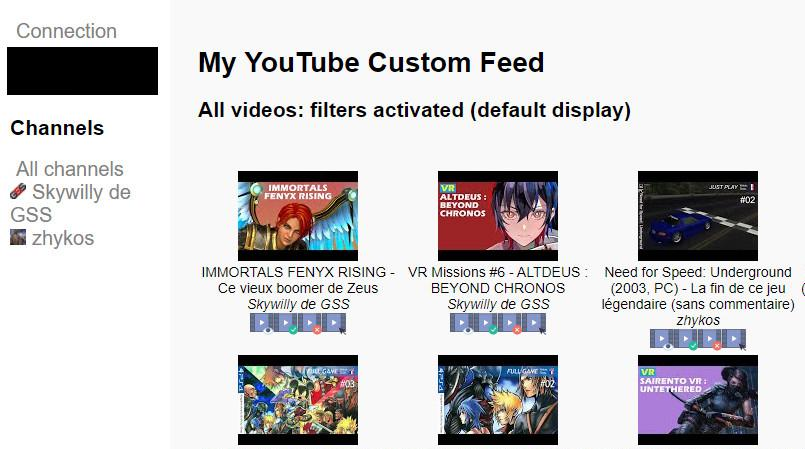
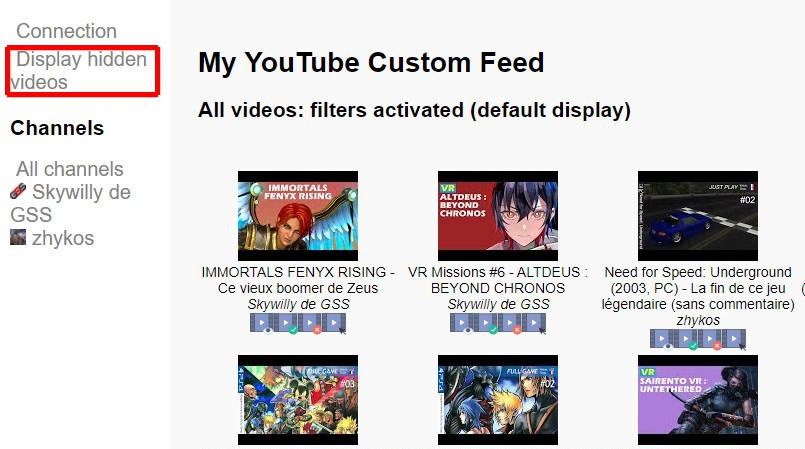
Fix draw rectangle method for screenshots

Changed region(s): [[0.0, 0.0935, 0.2174, 0.2183]]

diff --git a/tests/tests-helpers.js b/tests/tests-helpers.js
@@ -106,11 +106,11 @@ async function cropImage(inFilename, outFilename, x, y, w, h) {
 }
 exports.cropImage = cropImage;
 
-async function drawRectangle(inFilename, outFilename, x1, y1, x2, y2) {
-  await gm("./doc/images/" + inFilename + ".jpg").drawRectangle(x1, y1, x2, y2).write("./doc/images/" + outFilename + ".jpg", function (err) {
+async function drawRedNotFilledRectangle(inFilename, outFilename, x1, y1, x2, y2) {
+  await gm("./doc/images/" + inFilename + ".jpg").stroke("#FF0000", 0).strokeWidth(5).drawLine(x1, y1, x2, y1).drawLine(x2, y1, x2, y2).drawLine(x2, y2, x1, y2).drawLine(x1, y2, x1, y1).write("./doc/images/" + outFilename + ".jpg", function (err) {
     if (err) {
       console.log(err); // XXX
     }
   });
 }
-exports.drawRectangle = drawRectangle;
+exports.drawRedNotFilledRectangle = drawRedNotFilledRectangle;

diff --git a/tests/client-selenium-test.js b/tests/client-selenium-test.js
@@ -286,7 +286,7 @@ describe('Other screenshots', () => {
 
   test('client-guide-07', async () => {
     await helpers.cropImage('client-guide-00', 'client-guide-07-temp', 0, 0, 805, 449);
-    await helpers.drawRectangle('client-guide-07-temp', 'client-guide-07', 7, 47, 157, 94);
+    await helpers.drawRedNotFilledRectangle('client-guide-07-temp', 'client-guide-07', 7, 47, 157, 94);
   });
 });
 
